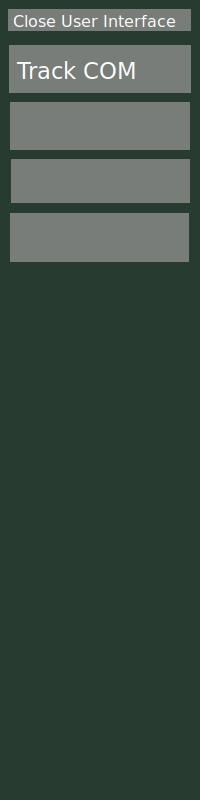
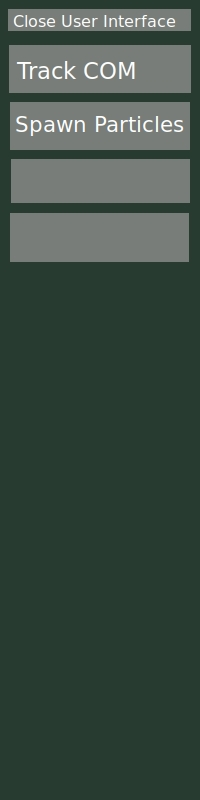
Added particle spawn window

diff --git a/dust/graphics.py b/dust/graphics.py
@@ -18,11 +18,12 @@ class Graphics:
         pygame.init()
         pygame.display.set_caption('Dust in Space') 
         self.d = pygame.display.set_mode(self.size)
-        self.UIOpen = True
+        self.uILandingOpen = True
         self.font = pygame.font.Font('freesansbold.ttf', 16) 
         self.text = self.font.render('No Mouse Connected', True, self.foreground, self.background) 
         self.textRect = self.text.get_rect()  
         self.textRect.center = (100, 20) 
+        self.uIParticleSpawn = False
         self.trackingCOM = False
     def close(self):
         pygame.time.delay(100)
@@ -60,14 +61,17 @@ class Graphics:
             self.zoom = self.zoom * 0.9
         elif event.button == 1:
             self.mouseDownPos = Vector(event.pos[0], event.pos[1])            
-            if self.withinRect(pygame.Rect((self.size[0] - 20, 0), (20, 20))) and self.UIOpen == False:
-                self.UIOpen = True
-            elif self.mouseDownPos.x < self.size[0] - 200 or self.UIOpen == False:
+            if self.withinRect(pygame.Rect((self.size[0] - 20, 0), (20, 20))) and ~self.uILandingOpen and ~self.uIParticleSpawn:
+                self.uILandingOpen = True
+            elif self.mouseDownPos.x < self.size[0] - 200 or self.uILandingOpen == False:
                 self.dragging = True
             elif self.withinRect(pygame.Rect((self.size[0] - 190, 9),(180 , 20))):
-                self.UIOpen = False
+                self.uILandingOpen = False
             elif self.withinRect(pygame.Rect((self.size[0] - 190, 45),(180 , 45))):
                 self.trackingCOM = ~self.trackingCOM
+            elif self.withinRect(pygame.Rect((self.size[0] - 190, 100),(180, 45))):
+                self.uILandingOpen = False
+                self.uIParticleSpawn = True
     def withinRect(self, r: pygame.Rect):
         if self.mouseDownPos.x > r.left and self.mouseDownPos.y > r.top \
         and self.mouseDownPos.x < r.left + r.width and self.mouseDownPos.y < r.top + r.height:
@@ -92,8 +96,12 @@ class Graphics:
             self.cameraPosition = sum(ls).position - Vector((self.size[0] - 200)/2, self.size[1]/2)
     def drawUI(self):
         currentdir = os.path.dirname(os.path.realpath(__file__))
-        if self.UIOpen:
+        if self.uILandingOpen:
             path = os.path.join(currentdir, "UserInterface/uILanding.jpg")
+            UI = pygame.image.load(path)
+            self.d.blit(UI, (self.size[0] - 200, 0))
+        elif self.uIParticleSpawn:
+            path = os.path.join(currentdir, "UserInterface/particleSpawner.jpg")
             UI = pygame.image.load(path)
             self.d.blit(UI, (self.size[0] - 200, 0))
         else:
